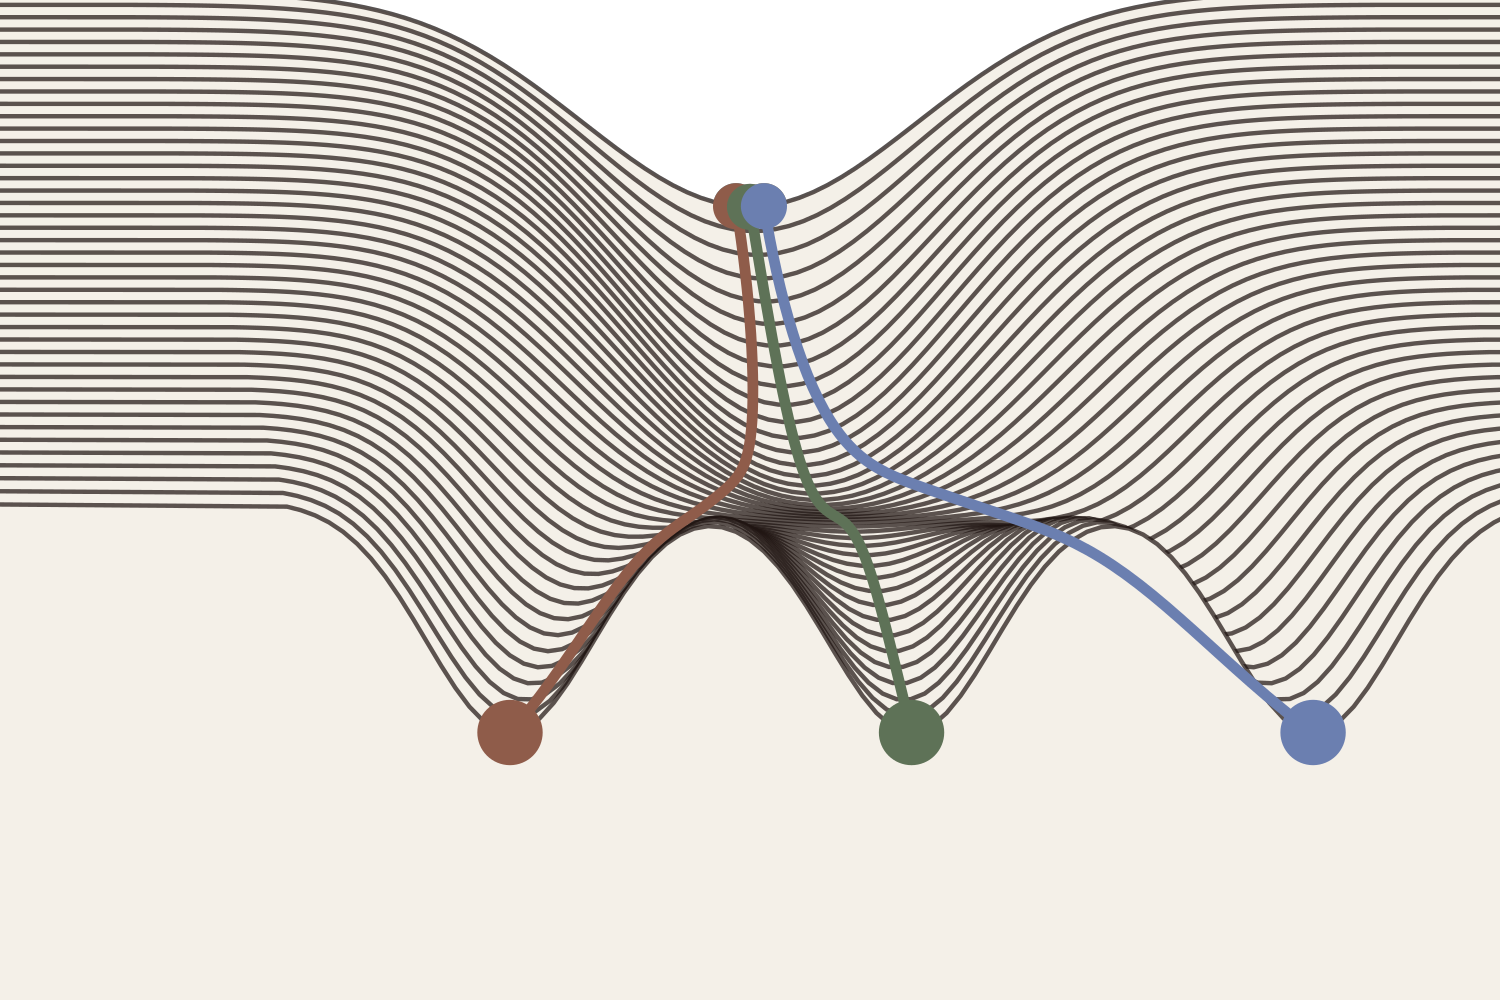
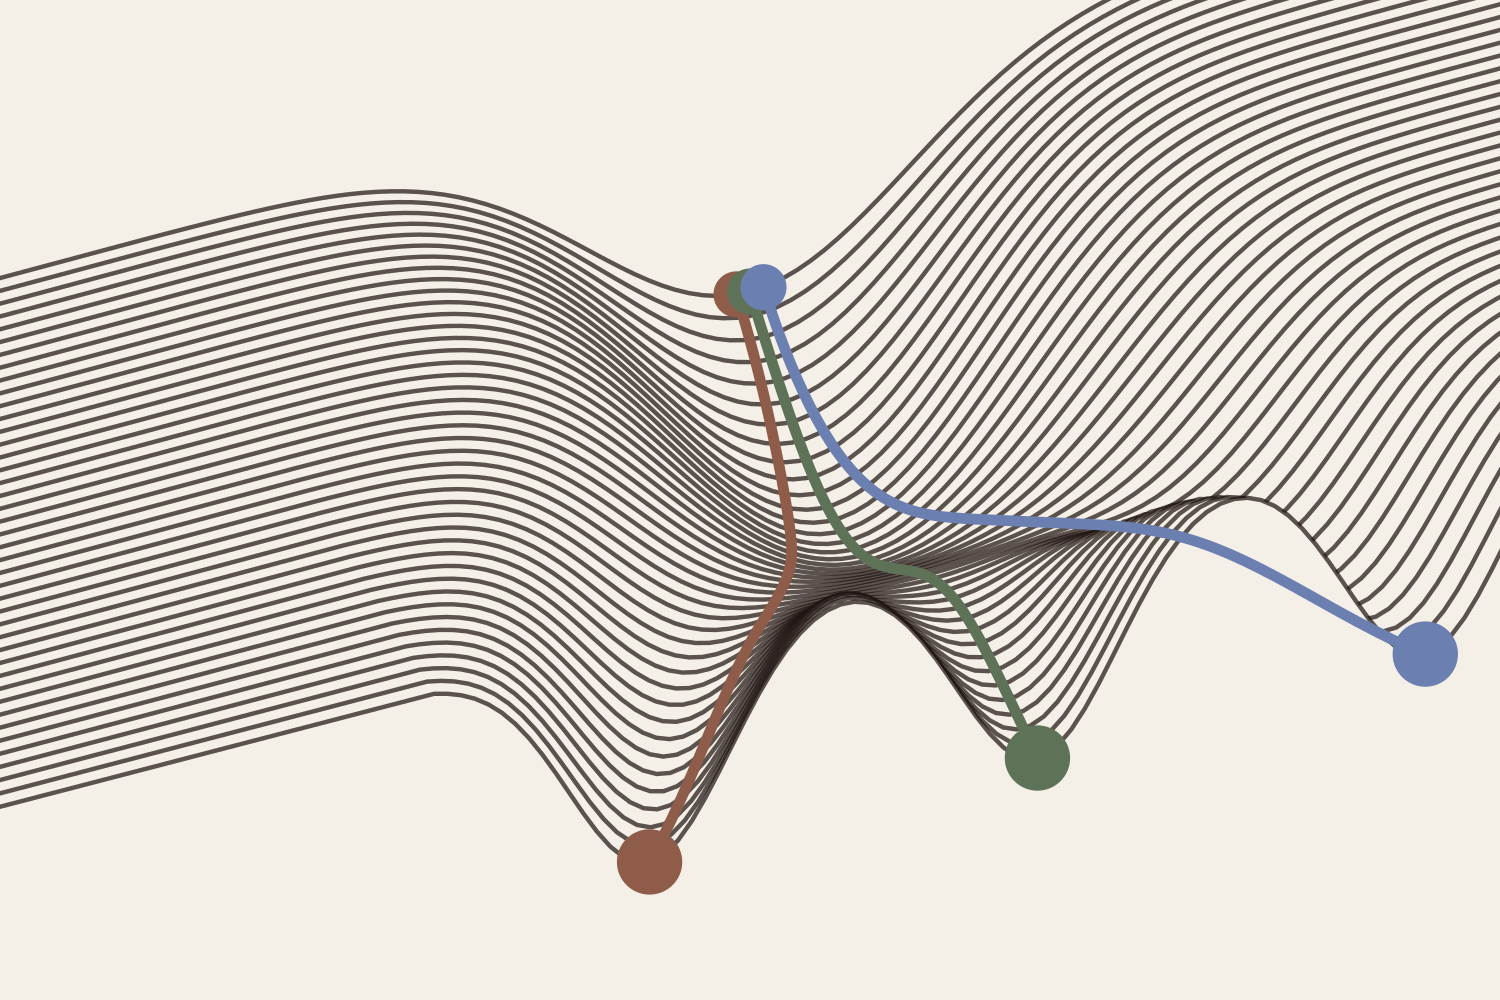
Add 15° azimuth side-view rotation to Waddington landscape
Rotates the u/t basis vectors 15° so the landscape reads as 3D:
right side of cross-sections tilts up, time axis becomes more
horizontal. Adds a solid background fill rectangle to eliminate
transparency gaps introduced by the rotation.

diff --git a/scripts/sketch/manim/cells.py b/scripts/sketch/manim/cells.py
@@ -6,7 +6,7 @@ domain accent. Ink contours on paper plate. 3:2.
 """
 import os
 import numpy as np
-from manim import Scene, VMobject, Polygon, Dot, ManimColor, config
+from manim import Scene, VMobject, Polygon, Dot, Rectangle, ManimColor, config
 
 INK  = ManimColor(os.environ.get("INK",  "#211512"))
 FILL = ManimColor(os.environ.get("FILL", "#f4f0e8"))
@@ -20,8 +20,19 @@ config.pixel_height = 1000
 config.pixel_width  = 1500
 
 B = np.array([-0.72, 0.0, 0.72])
-WIDTH, TOPY, DEPTH, SKEW, ZS = 1.45, 1.32, 1.32, 0.42, 1.55
+ZS       = 1.55
+TOPY     = 1.10   # lower to compensate for u→y shift after rotation
 BASELINE = -1.7
+
+# Rotate the u and t basis vectors 15° to produce a slight side-view.
+# CCW scene rotation (= camera moved 15° clockwise from above):
+#   u-vec (1.45, 0)    → (_UX,  _UY)  right side of cross-sections tilts UP
+#   t-vec (0.42,-1.32) → (_TX,  _TY)  time axis becomes more horizontal
+_c, _s = np.cos(np.radians(15)), np.sin(np.radians(15))
+_UX =  1.45 * _c          #  1.401
+_UY =  1.45 * _s          # +0.375  (positive → right side goes UP)
+_TX =  0.42 * _c + 1.32 * _s   #  0.748
+_TY =  0.42 * _s - 1.32 * _c   # -1.166
 
 
 def spread(t):
@@ -36,11 +47,17 @@ def phi(u, t):
 
 
 def project(u, t):
-    return np.array([u * WIDTH + SKEW * t, (TOPY - DEPTH * t) + phi(u, t) * ZS, 0.0])
+    x = _UX * u + _TX * t
+    y = TOPY + _UY * u + _TY * t + phi(u, t) * ZS
+    return np.array([x, y, 0.0])
 
 
 class Cells(Scene):
     def construct(self):
+        # Solid background so rotated ridgelines never leave transparent gaps
+        self.add(Rectangle(width=config.frame_width, height=config.frame_height,
+                            fill_color=FILL, fill_opacity=1.0, stroke_width=0))
+
         us     = np.concatenate([[-2.7], np.linspace(-1.12, 1.12, 90), [2.7]])
         slices = np.linspace(0, 1, 42)
 
